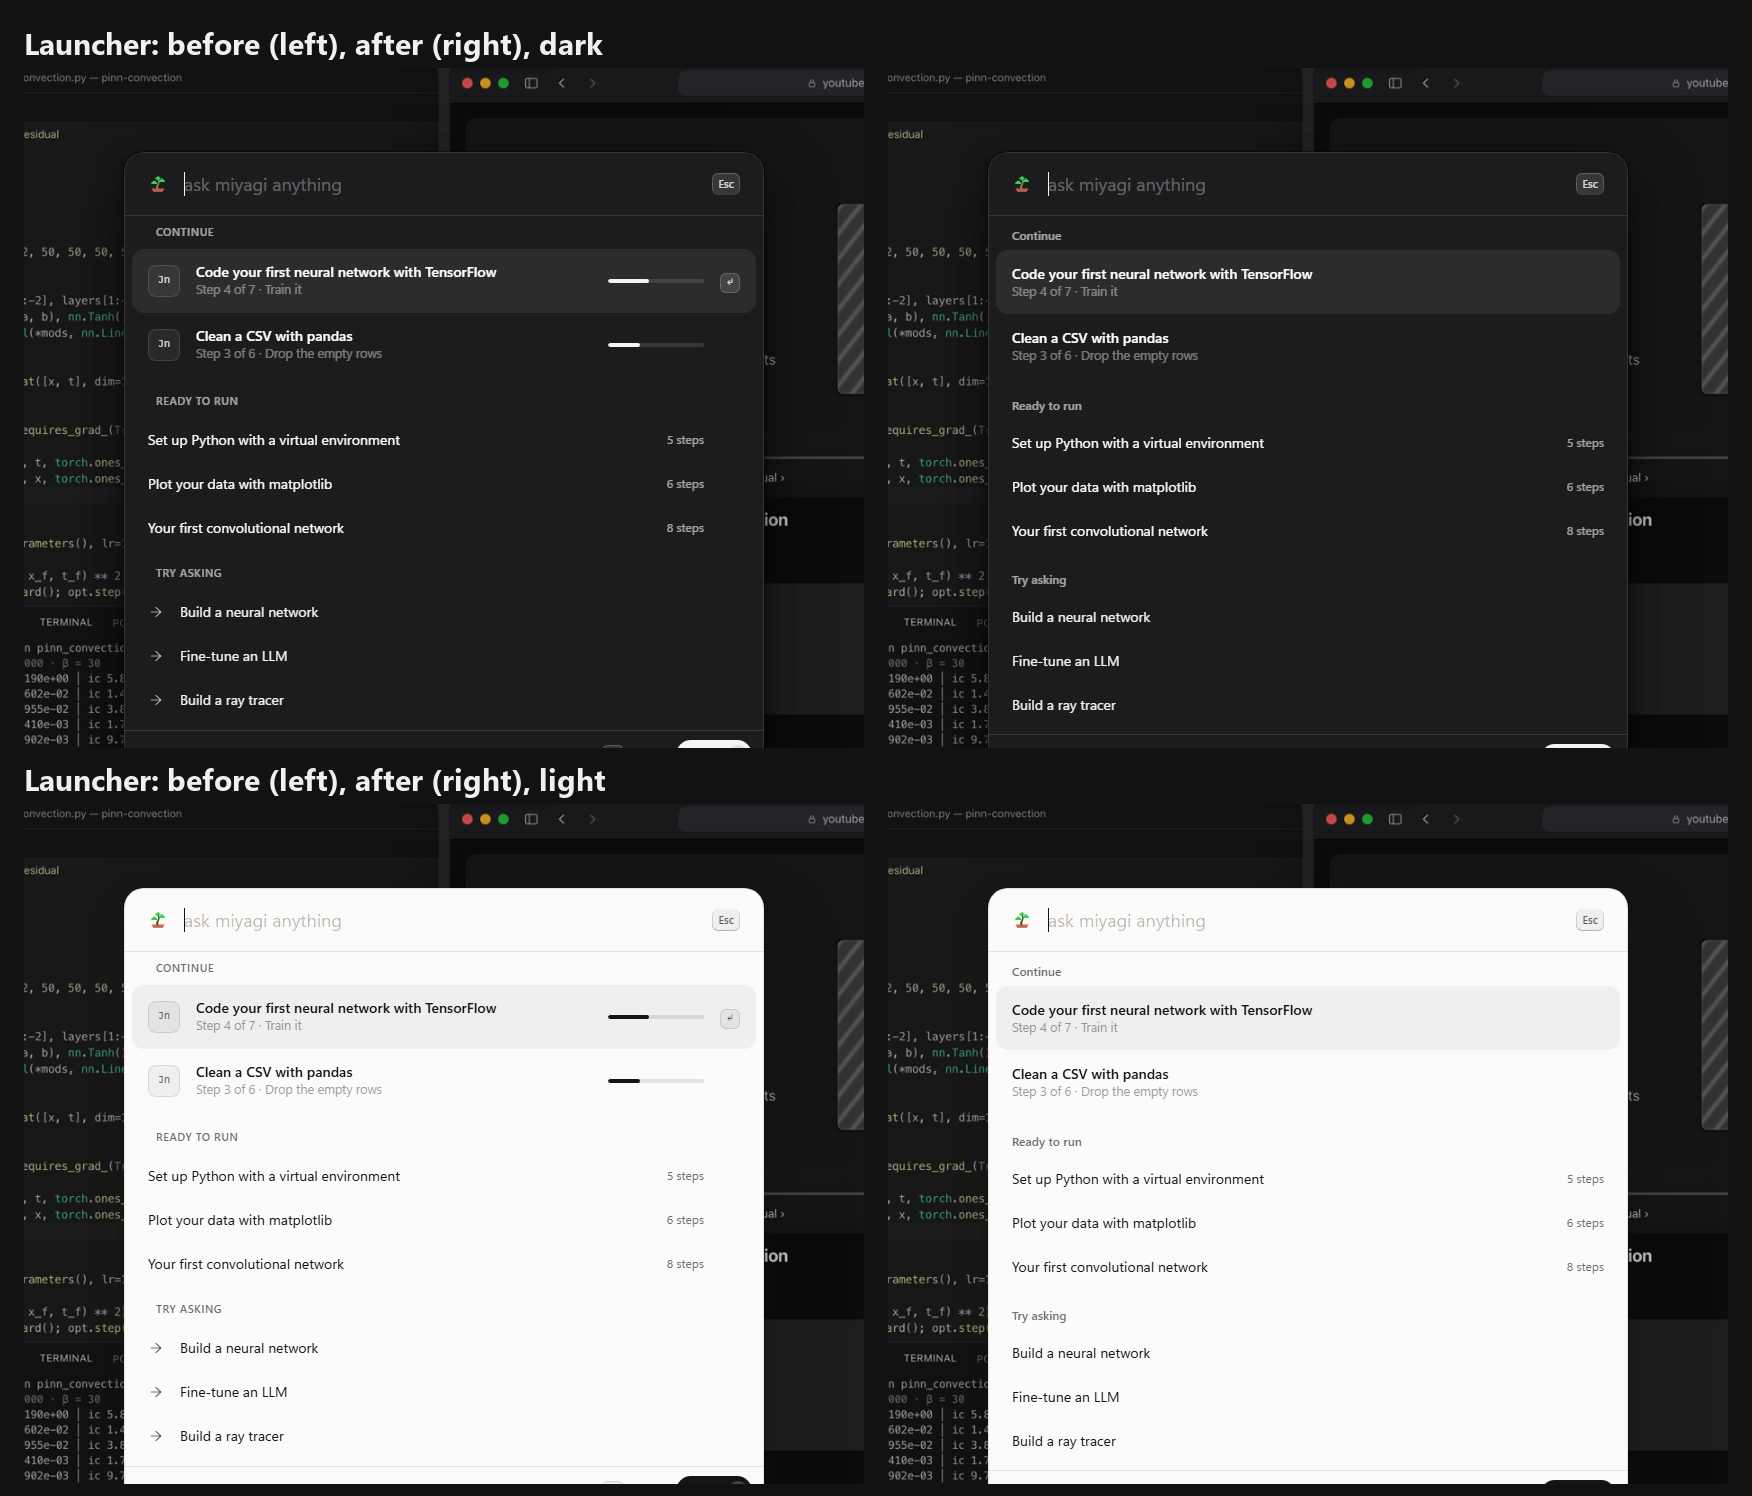
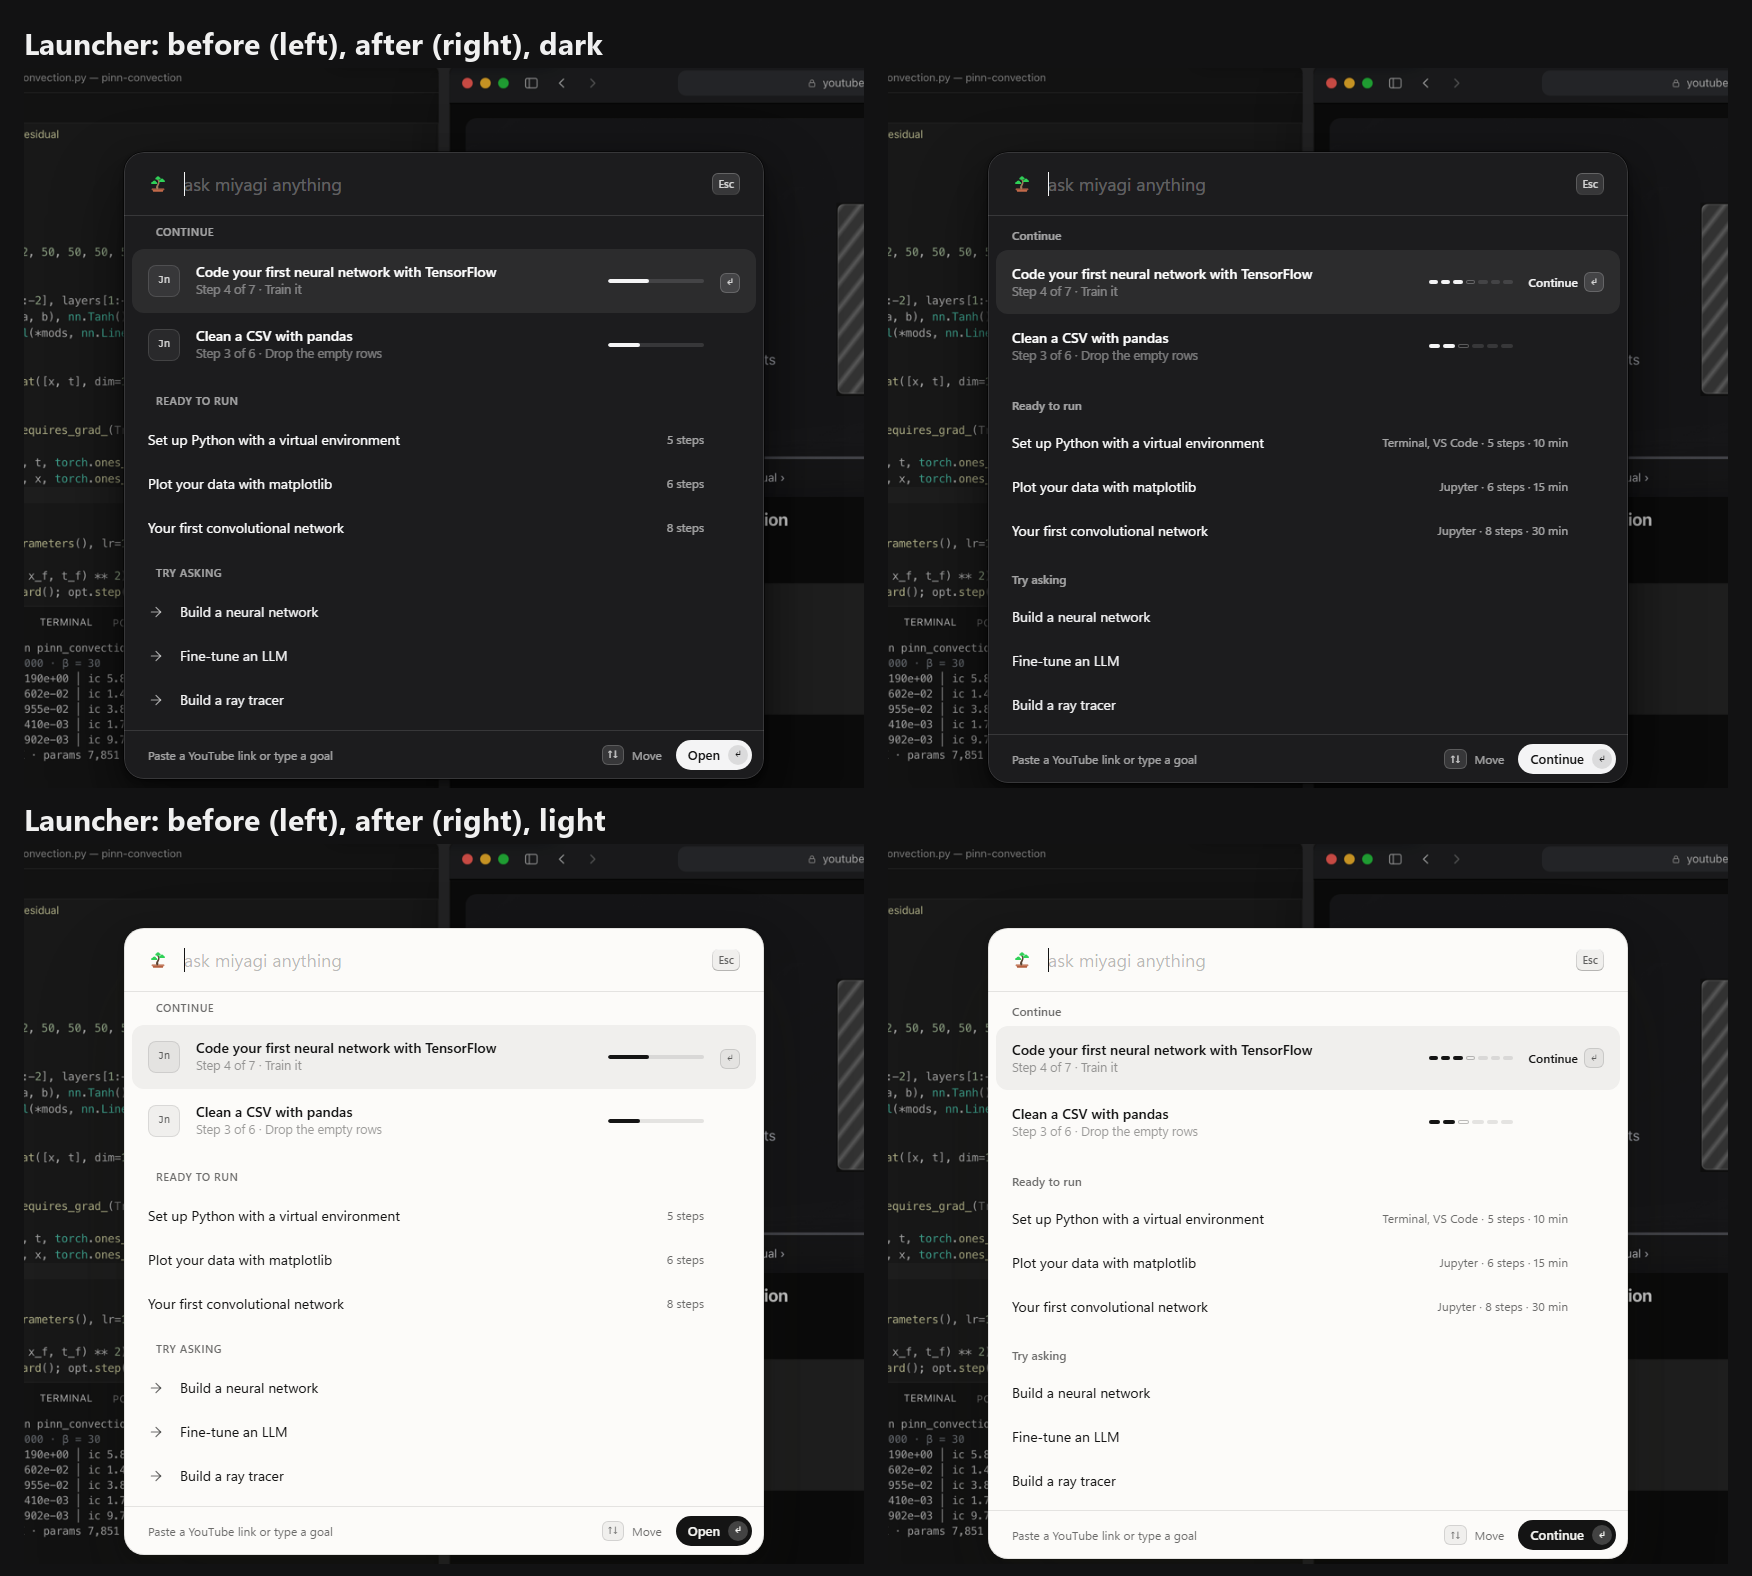
redraft: launcher keeps its features in the minimal style
Continue rows get the step bar (as on Home and Lessons) and 'Continue ↵' on the
highlighted row; the footer's primary says Continue for an in-progress lesson
(Enter still runs the highlighted row). Ready rows show the tool, steps and
minutes. Try asking keeps the ↵ on its highlighted line.

diff --git a/app/src/renderer/src/features/launcher/Rows.tsx b/app/src/renderer/src/features/launcher/Rows.tsx
@@ -7,6 +7,8 @@ import type { ReactNode } from 'react'
 import { CircleAlert, FileCode2, FileText, FolderGit2, Newspaper, SearchX, Settings } from 'lucide-react'
 import { useState } from 'react'
 import { MiyagiMark } from '../../core/ui/Mark'
+import { StepBar } from '../shell/ui'
+import { TOOL_NAME } from '../library/parts'
 import { Thumb } from '../../core/ui/atoms'
 import { brand, clock, color, fill, font, spring } from '../../core/theme'
 import { toolsLabel, type LibraryItem } from './library'
@@ -176,11 +178,20 @@ export function ResumeRow({
 }
 
 /**
- * The idle list's active line used to show an Enter keycap. Redraft (Adrian, Nov 21): one keycap for Enter, in the
- * footer's Open; the moving highlight already says which line Enter runs. Kept as a no-op so callers stay unchanged.
+ * The idle list's active line shows what Enter does there: the Enter keycap, and on a Continue line the word
+ * ("Continue ↵"). It fades in and out as ↑↓ move, so the cue sits on the line Enter runs.
  */
-function EnterCue(_: { active: boolean }): ReactNode {
-  return null
+function EnterCue({ active, label }: { active: boolean; label?: string }): ReactNode {
+  return (
+    <motion.span className="flex shrink-0 items-center gap-[6px]" initial={false} animate={{ opacity: active ? 1 : 0 }} transition={fade.tint} aria-hidden>
+      {label && (
+        <span className="text-[12px] font-medium" style={{ color: color.text }}>
+          {label}
+        </span>
+      )}
+      <NavKey>{navKey('enter')}</NavKey>
+    </motion.span>
+  )
 }
 
 /** Typing a settings word ("sett", "keys", "pref", "appear"…): the one way into Settings from the launcher. */
@@ -285,7 +296,8 @@ export function LibraryContinueRow({
   return (
     <RowShell slot={slot} onHover={onHover} onPick={onPick}>
       <Text title={item.title} meta={p ? `Step ${p.stepIndex + 1} of ${p.total}${p.stepTitle ? ` · ${p.stepTitle}` : ''}` : `${item.steps} steps`} />
-      <EnterCue active={active} />
+      {p && <StepBar done={p.stepIndex} total={p.total} width={84} />}
+      <EnterCue active={active} label="Continue" />
     </RowShell>
   )
 }
@@ -329,7 +341,7 @@ export function ReadyRow({
     >
       <span className="min-w-0 flex-1 truncate text-[14px] text-white">{item.title}</span>
       <span className="shrink-0 text-[12px]" style={{ color: color.label }}>
-        {item.steps === 1 ? '1 step' : `${item.steps} steps`}
+        {[(item.tools ?? []).map((t) => TOOL_NAME[t]).join(', '), item.steps === 1 ? '1 step' : `${item.steps} steps`, item.estMinutes ? `${item.estMinutes} min` : ''].filter(Boolean).join(' · ')}
       </span>
       <EnterCue active={active} />
     </motion.button>

diff --git a/app/src/renderer/src/features/launcher/parts.tsx b/app/src/renderer/src/features/launcher/parts.tsx
@@ -178,10 +178,10 @@ export function SectionLabel({ children, first = false }: { children: ReactNode;
 export const ASK_H = 44
 
 /**
- * One "Try asking" line (Home-Launcher): the words, 44 high (redraft: no arrow, no Enter keycap on the line; the
- * footer's Open carries Enter). No fill of its own: the list draws one highlight (the hover tint, never a hue) under
- * the active line, which the arrow keys and the pointer both move. Lines rise in a beat apart; a press dips on the
- * house spring.
+ * One "Try asking" line (Home-Launcher): the words, 44 high (redraft: no arrow). The active line shows the Enter
+ * keycap: Enter runs it. No fill of its own: the list draws one highlight (the hover tint, never a hue) under the
+ * active line, which the arrow keys and the pointer both move. Lines rise in a beat apart; a press dips on the house
+ * spring.
  */
 function AskLine({
   text,
@@ -215,6 +215,9 @@ function AskLine({
       {...rest}
     >
       <span className="min-w-0 flex-1 truncate">{text}</span>
+      <motion.span className="shrink-0" initial={false} animate={{ opacity: active ? 1 : 0 }} transition={fade.tint} aria-hidden>
+        <NavKey>{navKey('enter')}</NavKey>
+      </motion.span>
     </motion.button>
   )
 }

diff --git a/app/src/renderer/src/features/launcher/Launcher.tsx b/app/src/renderer/src/features/launcher/Launcher.tsx
@@ -840,7 +840,9 @@ export function Launcher({ layout }: { layout: Layout }): ReactNode {
     ? activeItem.kind === 'continue'
       ? 'resume'
       : activeItem.kind === 'lib'
-        ? 'open'
+        ? activeItem.item.progress
+          ? 'resume'
+          : 'open'
         : activeItem.kind === 'question'
           ? 'ask'
           : 'none'
